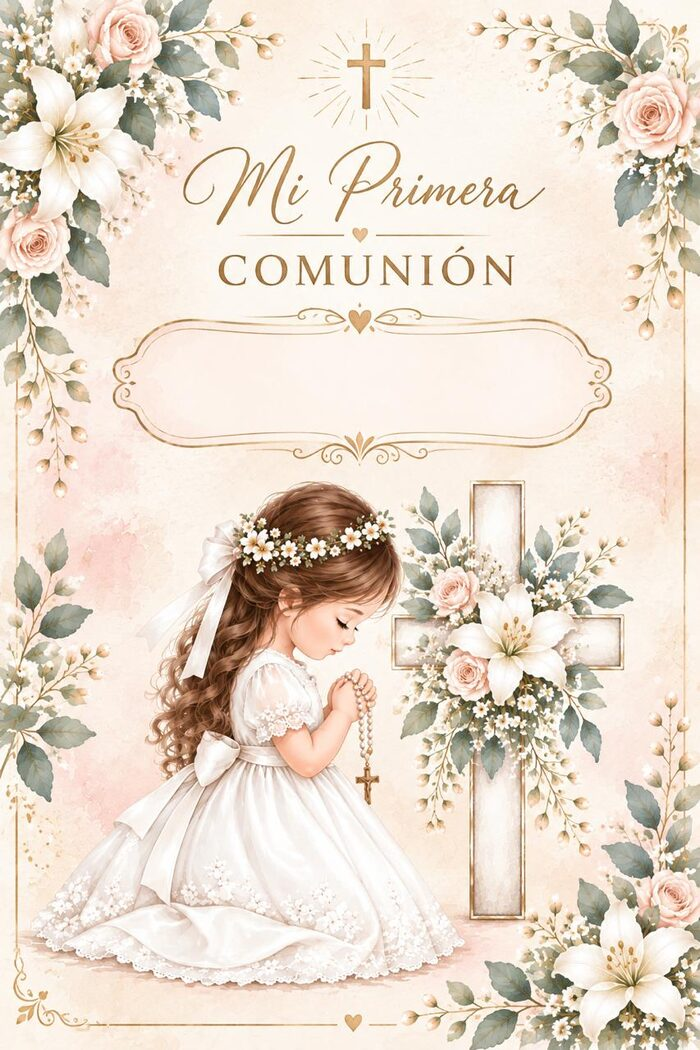
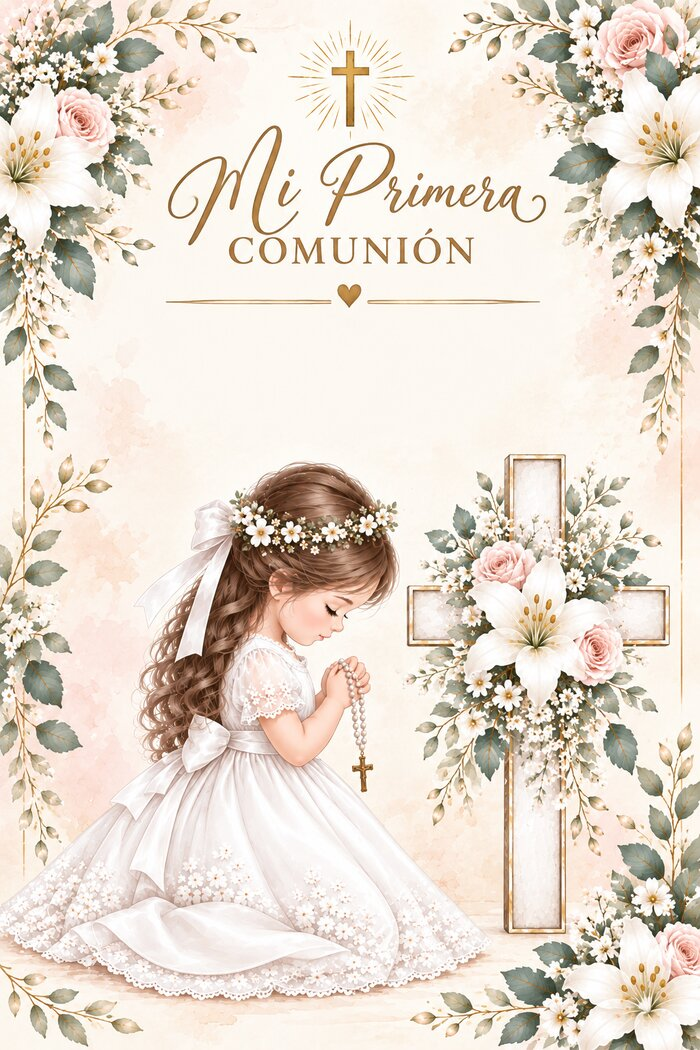
Efecto libro 3D pulido, iglesia/parroquia real, fecha/hora/dirección fijas, registro en Supabase

diff --git a/src/main.js b/src/main.js
@@ -1,7 +1,6 @@
 import './style.css';
 import { toPng } from 'html-to-image';
 
-
   var SCHOOL_NAME = 'Instituto Nuestra Señora de Fátima';
 
   var PALETTE = {
@@ -148,7 +147,11 @@ import { toPng } from 'html-to-image';
 
   // ---------- State ----------
   var DEFAULT_MSG = 'Hoy voy a recibir por primera vez el Cuerpo y la Sangre de Cristo en la Eucaristía. Quiero compartir este momento tan especial con las personas que más quiero, por eso te invito a acompañarme.';
-  var emptyForm = { nombre: '', fecha: '2026-09-25', hora: '19:00', parroquia: '', direccion: '', padres: '', mensaje: '', genero: '' };
+  var FECHA_EVENTO = '2026-09-25';
+  var HORA_EVENTO = '19:00';
+  var DIRECCION_EVENTO = 'Rufino Varela Ortiz 2600 – B° Matienzo';
+  var PARROQUIA_EVENTO = 'Parroquia Nuestra Señora de Fátima y San Pío V';
+  var emptyForm = { nombre: '', fecha: FECHA_EVENTO, hora: HORA_EVENTO, parroquia: PARROQUIA_EVENTO, direccion: DIRECCION_EVENTO, padres: '', mensaje: '', genero: '' };
   function illusSrc(genero) { return genero === 'nene' ? '/boy.jpg' : '/girl.jpg'; }
   function coverSrc(genero) { return genero === 'nene' ? '/cover-boy.jpg' : '/cover-girl.jpg'; }
   var state = { view: 'intro', form: JSON.parse(JSON.stringify(emptyForm)), shareUrl: '', duplicateNote: '' };
@@ -192,10 +195,13 @@ import { toPng } from 'html-to-image';
       '<div class="corner bl">' + cornerFlourish(t.accentDeep) + '</div>' +
       '<div class="corner br">' + cornerFlourish(t.accentDeep) + '</div>' +
       '<div class="school"><img src="/logo.png" alt=""/><span style="color:' + t.accentDeep + '">' + esc(SCHOOL_NAME) + '</span></div>' +
+      '<div class="church-banner"><img src="/church.jpg" alt=""/></div>' +
+      '<img class="parroquia-logo" src="/parroquia-logo.png" alt=""/>' +
       '<p class="kicker" style="color:' + t.accentDeep + '"><i style="background:' + t.accent + '"></i>En su Primera Comunión<i style="background:' + t.accent + '"></i></p>' +
       '<h2 class="font-display">' + (esc(data.nombre) || 'Nombre del niño/a') + '</h2>' +
       '<div class="rule"><svg width="16" height="16" viewBox="0 0 16 16"><path d="M8 0l2 6 6 2-6 2-2 6-2-6-6-2 6-2z" fill="' + t.accent + '"/></svg></div>' +
       '<p class="msg font-display">' + esc(mensaje) + '</p>' +
+      '<div class="divider-motif">' + motifSvg('cruz', t.accent, t.accentDeep, 30) + '</div>' +
       '<div class="spacer"></div>' +
       '<div class="when"><span>' + (formatFechaEs(data.fecha) || 'Fecha a confirmar') + '</span>' +
       (data.hora ? '<span style="font-weight:600">' + esc(formatHora(data.hora)) + '</span>' : '') + '</div>' +
@@ -209,7 +215,7 @@ import { toPng } from 'html-to-image';
 
   function bookHTML(id, data) {
     return (
-      '<div class="book-wrap"><div class="book" id="' + id + '">' +
+      '<div class="book-wrap" id="' + id + '-wrap"><div class="pages-edge"></div><div class="book" id="' + id + '">' +
       '<div class="face front">' + coverHTML(data, { hint: 'Toca para abrir' }) + '</div>' +
       '<div class="face back">' + pageHTML(data) + '</div>' +
       '</div></div>'
@@ -218,10 +224,12 @@ import { toPng } from 'html-to-image';
 
   function wireBook(id, onOpen) {
     var book = document.getElementById(id);
+    var wrap = document.getElementById(id + '-wrap');
     if (!book) return;
     book.addEventListener('click', function () {
       var willOpen = !book.classList.contains('open');
       book.classList.toggle('open');
+      if (wrap) wrap.classList.toggle('is-open', willOpen);
       if (willOpen && onOpen) onOpen();
     });
   }
@@ -254,7 +262,7 @@ import { toPng } from 'html-to-image';
   }
 
   function canSubmit() {
-    return state.form.nombre.trim().length > 1 && state.form.fecha && !!state.form.genero;
+    return state.form.nombre.trim().length > 1 && !!state.form.genero;
   }
 
   function renderForm() {
@@ -268,12 +276,7 @@ import { toPng } from 'html-to-image';
       '<button type="button" class="gender-btn' + (f.genero === 'nene' ? ' active' : '') + '" data-genero="nene"><img src="/boy.jpg" alt=""/><span>Nene</span></button>' +
       '</div></div>' +
       field('Tu nombre y apellido *', '<input required id="f-nombre" placeholder="Ej: Valentina Gómez" value="' + esc(f.nombre) + '"/>') +
-      '<div style="display:flex;gap:12px">' +
-      '<label class="field" style="flex:1"><span class="label">Fecha *</span><input required type="date" id="f-fecha" value="' + esc(f.fecha) + '"/></label>' +
-      '<label class="field" style="flex:1"><span class="label">Hora</span><input type="time" id="f-hora" value="' + esc(f.hora) + '"/></label>' +
-      '</div>' +
-      field('Parroquia / Iglesia', '<input id="f-parroquia" placeholder="Ej: Parroquia Nuestra Señora de Fátima" value="' + esc(f.parroquia) + '"/>') +
-      field('Dirección', '<input id="f-direccion" placeholder="Ej: San Martín 450, Córdoba" value="' + esc(f.direccion) + '"/>') +
+      '<p class="note">📅 ' + formatFechaEs(FECHA_EVENTO) + ' · ' + formatHora(HORA_EVENTO) + '<br>⛪ ' + esc(PARROQUIA_EVENTO) + '<br>📍 ' + esc(DIRECCION_EVENTO) + '</p>' +
       field('Padres / Padrinos', '<input id="f-padres" placeholder="Ej: Hijos de Juan y María · Padrinos: Ana y Luis" value="' + esc(f.padres) + '"/>') +
       field('Mensaje personalizado', '<textarea id="f-mensaje" rows="3" placeholder="' + esc(DEFAULT_MSG) + '">' + esc(f.mensaje) + '</textarea>') +
       '<div id="form-error" style="color:#a33;font-size:0.85rem"></div>' +
@@ -285,7 +288,7 @@ import { toPng } from 'html-to-image';
     );
     wireBook('preview-book');
 
-    var ids = ['nombre', 'fecha', 'hora', 'parroquia', 'direccion', 'padres', 'mensaje'];
+    var ids = ['nombre', 'padres', 'mensaje'];
     ids.forEach(function (id) {
       var el = document.getElementById('f-' + id);
       el.addEventListener('input', function () {
@@ -294,7 +297,10 @@ import { toPng } from 'html-to-image';
         var wasOpen = !!document.getElementById('preview-book') && document.getElementById('preview-book').classList.contains('open');
         var wrap = document.querySelector('.form-grid > div:last-child');
         wrap.innerHTML = '<p class="label preview-label">Vista previa · tocá la tapa para abrirla</p><div>' + bookHTML('preview-book', state.form) + '</div>';
-        if (wasOpen) document.getElementById('preview-book').classList.add('open');
+        if (wasOpen) {
+          document.getElementById('preview-book').classList.add('open');
+          document.getElementById('preview-book-wrap').classList.add('is-open');
+        }
         wireBook('preview-book');
       });
     });
@@ -314,6 +320,28 @@ import { toPng } from 'html-to-image';
     return '<label class="field"><span class="label">' + label + '</span>' + inputHtml + '</label>';
   }
 
+  // ---------- Registro (Supabase) — para que Guille vea quién usó la app ----------
+  var SUPABASE_URL = 'https://sxfnqucwcteiligdtehq.supabase.co';
+  var SUPABASE_KEY = 'eyJhbGciOiJIUzI1NiIsInR5cCI6IkpXVCJ9.eyJpc3MiOiJzdXBhYmFzZSIsInJlZiI6InN4Zm5xdWN3Y3RlaWxpZ2R0ZWhxIiwicm9sZSI6ImFub24iLCJpYXQiOjE3ODAzODUzNzYsImV4cCI6MjA5NTk2MTM3Nn0.wULpHXuJ0qE1mVcN2FNvEJBVJ4XT8USXtVmNDVeb16s';
+  function registrarUso(data) {
+    try {
+      fetch(SUPABASE_URL + '/rest/v1/invitaciones_comunion', {
+        method: 'POST',
+        headers: {
+          'Content-Type': 'application/json',
+          apikey: SUPABASE_KEY,
+          Authorization: 'Bearer ' + SUPABASE_KEY,
+          Prefer: 'return=minimal',
+        },
+        body: JSON.stringify({
+          nombre_nino: data.nombre, fecha: data.fecha || null, hora: data.hora || null,
+          parroquia: data.parroquia || null, direccion: data.direccion || null,
+          padres: data.padres || null, mensaje: data.mensaje || null, template: data.genero || null,
+        }),
+      }).catch(function () {});
+    } catch (e) {}
+  }
+
   function submitForm() {
     if (!canSubmit()) return;
     var f = state.form;
@@ -327,6 +355,7 @@ import { toPng } from 'html-to-image';
     url.searchParams.set('i', JSON.stringify(data));
     state.shareUrl = url.toString();
     state.view = 'success';
+    registrarUso(data);
     render();
   }
 
@@ -421,7 +450,10 @@ import { toPng } from 'html-to-image';
       '</div></div>';
 
     var book = document.getElementById('invite-book');
-    if (state.opened) book.classList.add('open');
+    if (state.opened) {
+      book.classList.add('open');
+      document.getElementById('invite-book-wrap').classList.add('is-open');
+    }
     wireBook('invite-book', function () {
       state.opened = true;
       document.querySelector('.invite-screen').classList.add('opened');

diff --git a/src/style.css b/src/style.css
@@ -103,9 +103,11 @@ body { margin: 0; }
   }
   .cover-wrap img { width: 100%; height: 100%; object-fit: cover; display: block; }
   .cover-name {
-    position: absolute; top: 32.5%; left: 50%; transform: translate(-50%, -50%); width: 58%;
-    text-align: center; font-family: 'Cormorant Garamond', serif; font-weight: 600; line-height: 1.03;
-    color: #4a3924; word-break: break-word; font-size: clamp(0.95rem, 8.4cqw, 2.3rem);
+    position: absolute; top: 31%; left: 50%; transform: translate(-50%, -50%); width: 72%;
+    text-align: center; font-family: 'Cormorant Garamond', serif; font-weight: 600; line-height: 1.08;
+    color: #4a3924; word-break: break-word; font-size: clamp(0.85rem, 6.6cqw, 1.85rem);
+    background: rgba(255,253,248,0.82); padding: 4% 8%; border-radius: 14px;
+    box-shadow: 0 4px 14px -4px rgba(0,0,0,0.12);
   }
   .cover-hint {
     position: absolute; bottom: 5%; left: 50%; transform: translateX(-50%);
@@ -116,19 +118,31 @@ body { margin: 0; }
 
   /* ---- Inside page ---- */
   .page {
-    aspect-ratio: 700 / 1050; width: 100%; border-radius: 20px; padding: 9% 9% 7%;
+    aspect-ratio: 700 / 1050; width: 100%; border-radius: 20px; padding: 8% 9% 6%;
     display: flex; flex-direction: column; align-items: center; text-align: center;
     position: relative; overflow: hidden; box-shadow: 0 24px 54px -22px rgba(0,0,0,0.42);
   }
+  .page::before {
+    content: ''; position: absolute; inset: 0; background-image: url(/church.jpg);
+    background-size: cover; background-position: center; opacity: 0.05; z-index: 0;
+  }
+  .page > * { position: relative; z-index: 1; }
   .page .corner { position: absolute; width: 30px; height: 30px; opacity: 0.9; z-index: 2; }
   .page .corner.tl { top: 14px; left: 14px; }
   .page .corner.tr { top: 14px; right: 14px; transform: scaleX(-1); }
   .page .corner.bl { bottom: 14px; left: 14px; transform: scaleY(-1); }
   .page .corner.br { bottom: 14px; right: 14px; transform: scale(-1); }
 
-  .page .school { display: flex; align-items: center; gap: 6px; margin-bottom: 4%; }
-  .page .school span { font-size: 0.58rem; letter-spacing: 0.16em; text-transform: uppercase; font-weight: 700; opacity: 0.9; }
-  .page .school img { width: 15px; height: auto; }
+  .page .school { display: flex; align-items: center; gap: 9px; margin-bottom: 4%; }
+  .page .school span { font-size: 0.64rem; letter-spacing: 0.14em; text-transform: uppercase; font-weight: 800; opacity: 0.92; line-height: 1.25; text-align: left; }
+  .page .school img { width: 34px; height: auto; filter: drop-shadow(0 3px 6px rgba(0,0,0,0.18)); }
+
+  .page .church-banner {
+    width: 100%; aspect-ratio: 900 / 506; border-radius: 14px; overflow: hidden; margin: 0 0 5%; flex: none;
+    box-shadow: 0 10px 22px -12px rgba(0,0,0,0.4), inset 0 0 0 1px rgba(255,255,255,0.5);
+  }
+  .page .church-banner img { width: 100%; height: 100%; object-fit: contain; display: block; }
+  .page .parroquia-logo { width: 100px; height: auto; margin: 0 0 4%; filter: drop-shadow(0 3px 6px rgba(0,0,0,0.16)); }
 
   .page .kicker {
     font-family: 'Cormorant Garamond', serif; font-style: italic; font-size: 1rem; font-weight: 600;
@@ -146,14 +160,15 @@ body { margin: 0; }
   }
   .page .msg::before { content: '“'; }
   .page .msg::after { content: '”'; }
-  .page .spacer { flex: 1; min-height: 8px; }
+  .page .divider-motif { margin: 4% 0; opacity: 0.85; }
+  .page .spacer { flex: 1; min-height: 6px; }
   .page .when { display: flex; flex-direction: column; gap: 3px; font-size: 0.92rem; font-weight: 700; letter-spacing: 0.01em; }
   .page .parroquia { margin: 4% 0 0; font-size: 0.86rem; font-weight: 700; }
   .page .direccion { margin: 1px 0 0; font-size: 0.76rem; opacity: 0.85; }
   .page .padres { margin: 4% 0 0; font-size: 0.72rem; font-style: italic; }
-  .page .footer-logo { display: flex; align-items: center; justify-content: center; gap: 6px; margin-top: 6%; }
-  .page .footer-logo img { width: 18px; height: auto; }
-  .page .footer-logo span { font-size: 0.54rem; letter-spacing: 0.1em; text-transform: uppercase; font-weight: 700; opacity: 0.8; }
+  .page .footer-logo { display: flex; align-items: center; justify-content: center; gap: 8px; margin-top: 6%; }
+  .page .footer-logo img { width: 26px; height: auto; }
+  .page .footer-logo span { font-size: 0.56rem; letter-spacing: 0.1em; text-transform: uppercase; font-weight: 700; opacity: 0.8; }
 
   .preview-label { text-align: center; }
 
@@ -205,15 +220,33 @@ body { margin: 0; }
   .not-found { min-height: 100dvh; display: grid; place-items: center; padding: 24px; text-align: center; }
 
   /* ---- Book flip effect (modern 3D CSS transform) ---- */
-  .book-wrap { perspective: 2200px; width: 100%; }
-  .book { position: relative; width: 100%; aspect-ratio: 700 / 1050; transform-style: preserve-3d; }
+  .book-wrap {
+    perspective: 2400px; width: 100%; position: relative;
+    filter: drop-shadow(0 26px 30px rgba(20,14,4,0.22)) drop-shadow(0 6px 10px rgba(20,14,4,0.14));
+    transition: filter 1.1s ease;
+  }
+  .book-wrap.is-open { filter: drop-shadow(0 40px 46px rgba(20,14,4,0.3)) drop-shadow(0 10px 16px rgba(20,14,4,0.18)); }
+  .pages-edge {
+    position: absolute; top: 1.6%; bottom: 1.6%; right: -3px; width: 9px; z-index: 0;
+    background: repeating-linear-gradient(to bottom, #fffdf8 0px, #fffdf8 2px, #e9dcc0 2px, #e9dcc0 3px);
+    border-radius: 0 7px 7px 0; box-shadow: 1px 1px 3px rgba(0,0,0,0.28), inset -1px 0 1px rgba(0,0,0,0.1);
+  }
+  .book { position: relative; width: 100%; aspect-ratio: 700 / 1050; transform-style: preserve-3d; z-index: 1; }
   .book .face {
     position: absolute; inset: 0; backface-visibility: hidden; border-radius: 20px; overflow: hidden;
-    transition: transform 1.05s cubic-bezier(.45,.05,.15,1), box-shadow 1.05s ease; transform-origin: left center;
+    transition: transform 1.15s cubic-bezier(.4,0,.2,1); transform-origin: left center;
   }
-  .book .face.front { transform: rotateY(0deg); z-index: 2; }
+  .book .face::after {
+    content: ''; position: absolute; inset: 0; pointer-events: none; opacity: 0; transition: opacity 1.15s ease;
+    background: linear-gradient(90deg, rgba(0,0,0,0.28) 0%, rgba(0,0,0,0.06) 12%, transparent 30%);
+  }
+  .book .face.front {
+    transform: rotateY(0deg); z-index: 2;
+    box-shadow: inset 2px 0 0 rgba(255,255,255,0.5), inset -1px 0 6px rgba(0,0,0,0.12);
+  }
   .book .face.back { transform: rotateY(180deg); }
-  .book.open .face.front { transform: rotateY(-165deg); box-shadow: 30px 0 40px -20px rgba(0,0,0,0.35); }
+  .book.open .face.front { transform: rotateY(-172deg); }
+  .book.open .face.front::after { opacity: 1; }
   .book.open .face.back { transform: rotateY(0deg); z-index: 2; }
   @media (min-width: 640px) { .book-wrap { max-width: 420px; margin: 0 auto; } }
 
